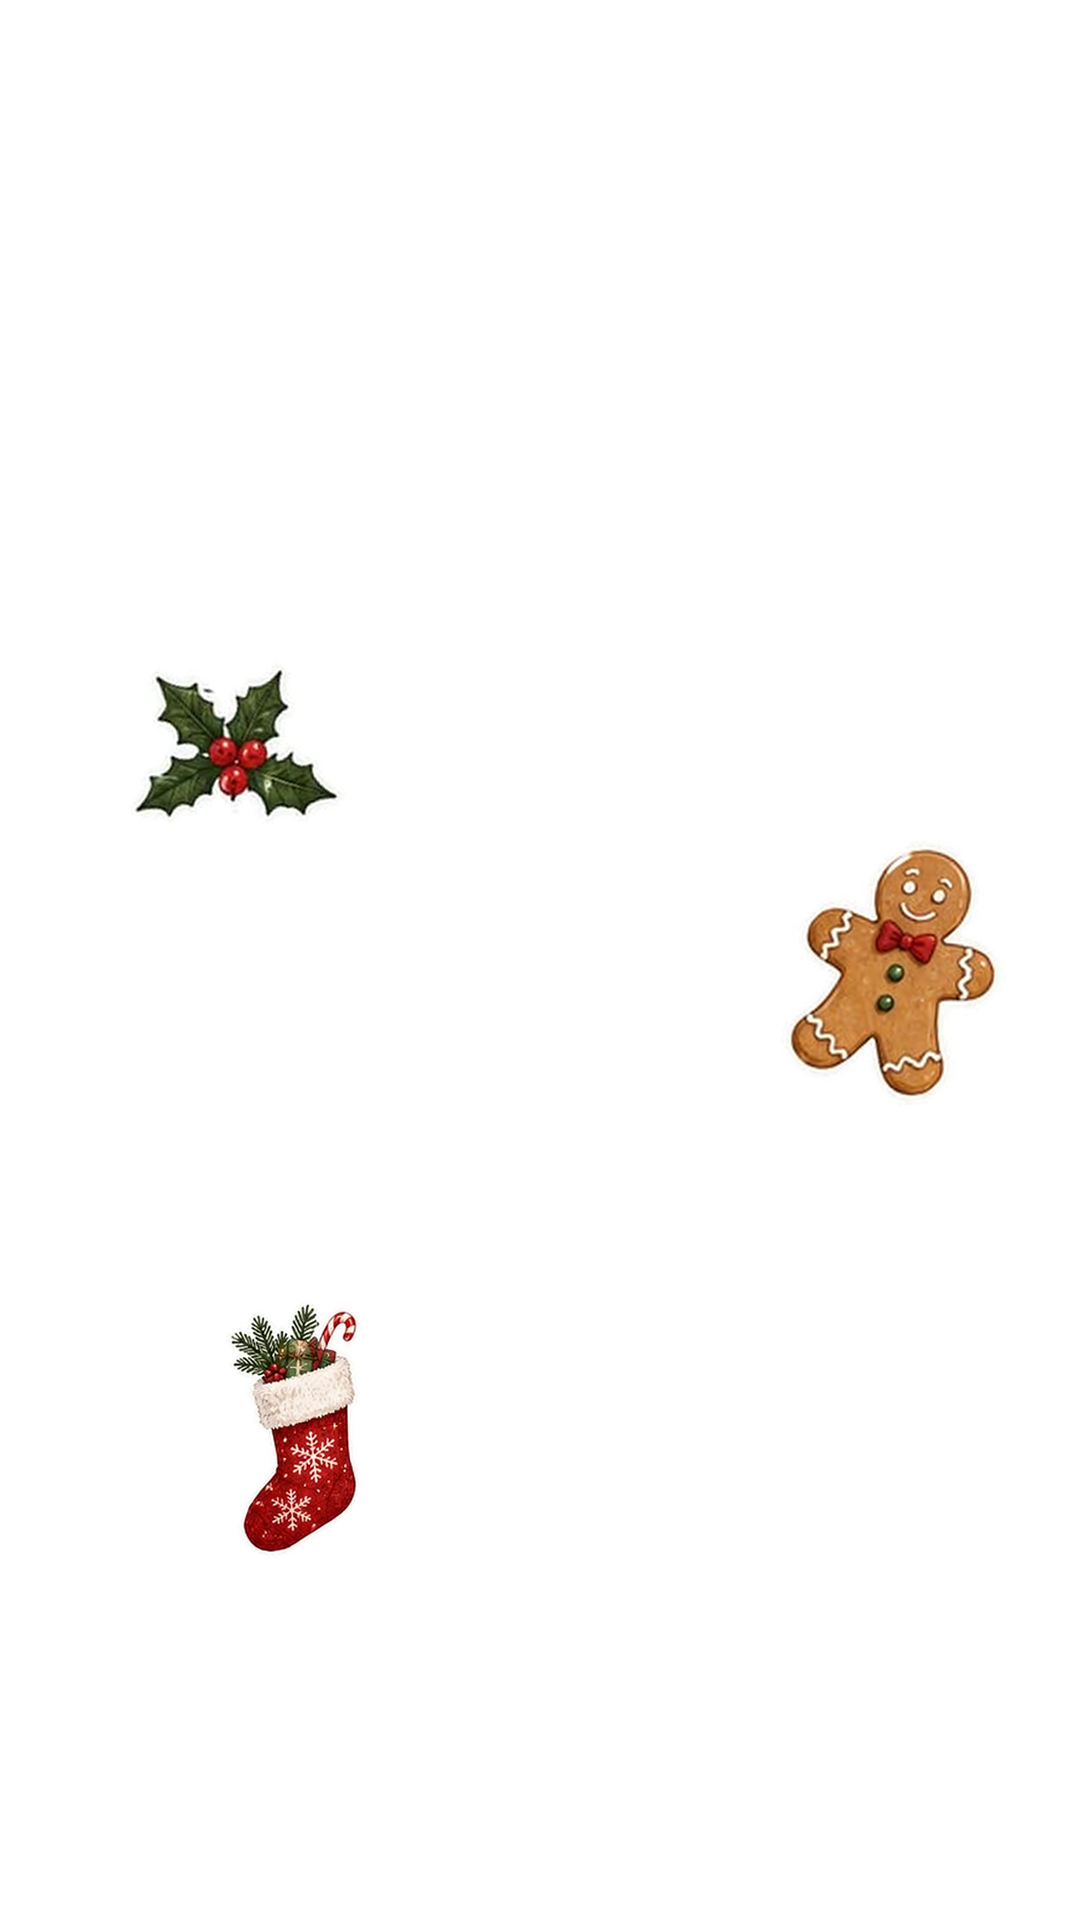
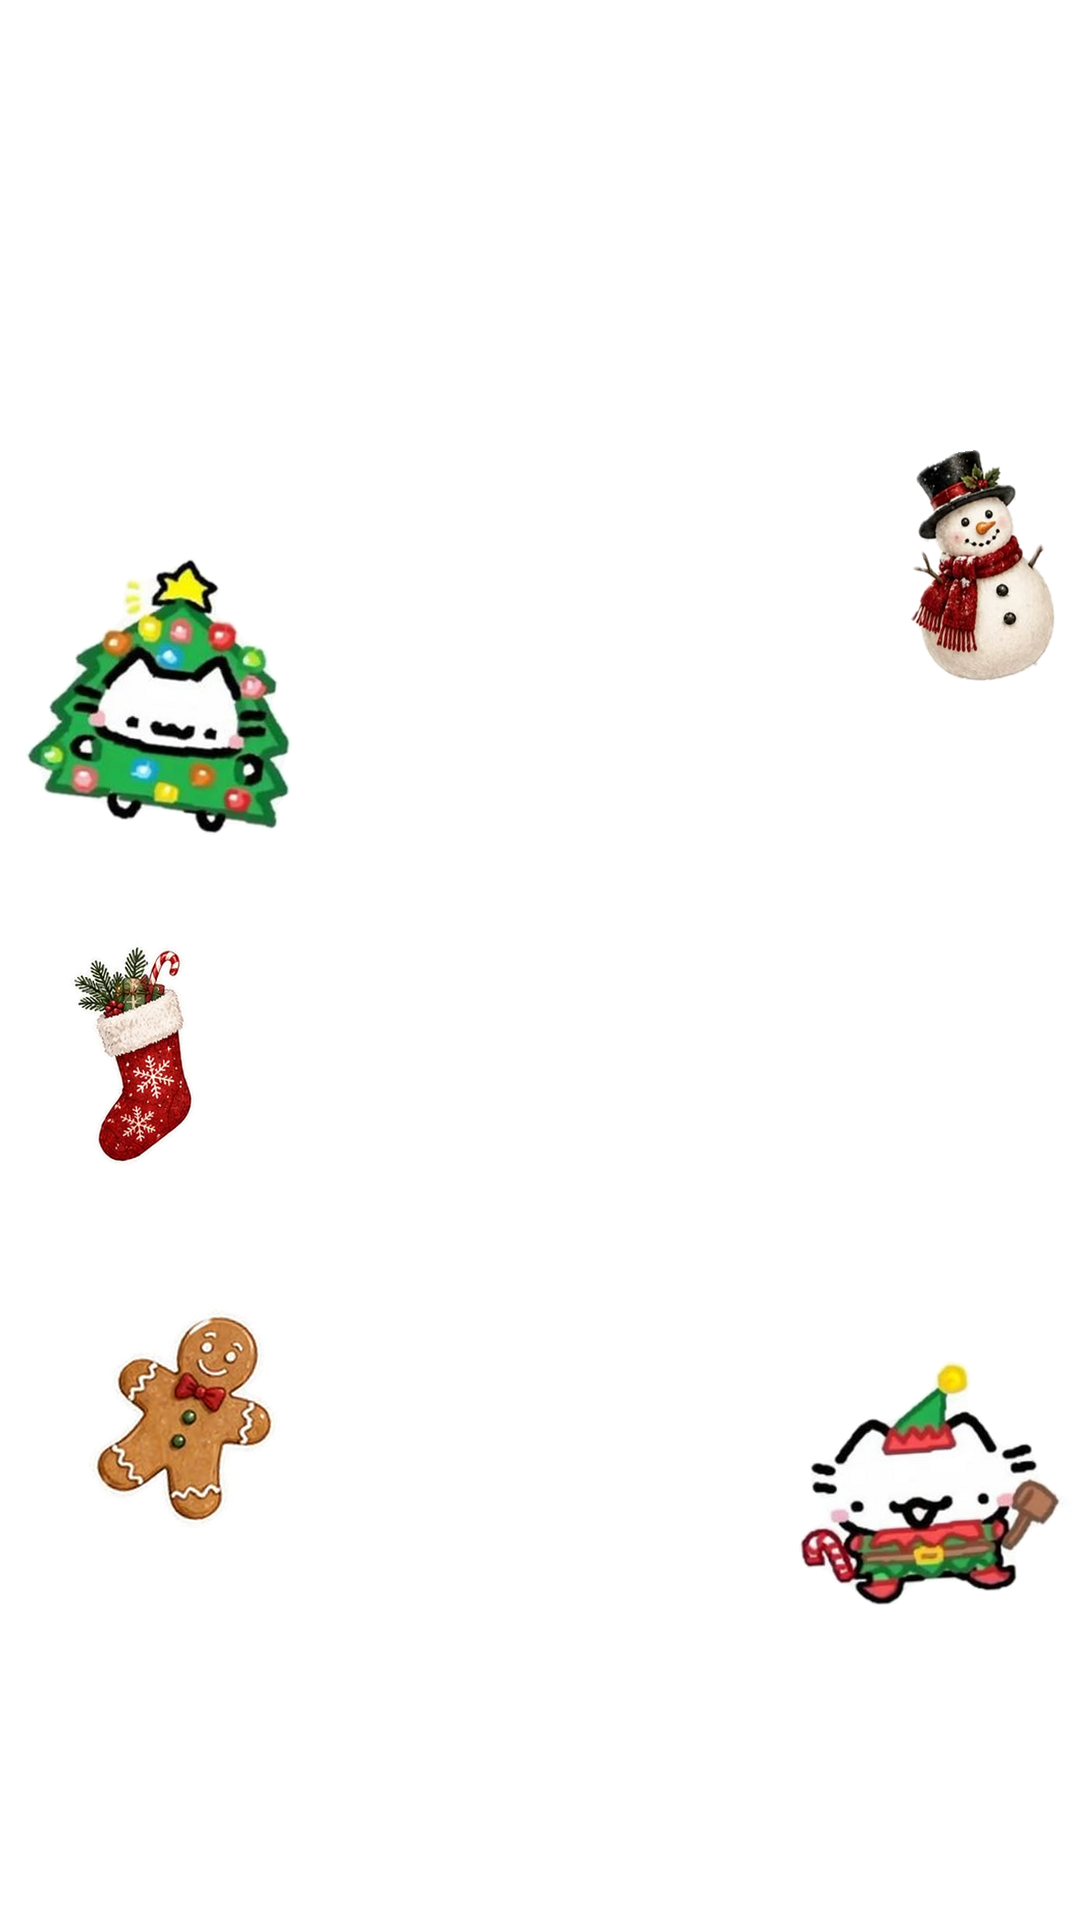
Introdução com stickers fixos e leve movimento a cada 0,5 s; abertura vem do IMG_7969; regras atualizadas
Claude-Session: https://claude.ai/code/session_01EDeurVhqsz6meJn35JURnX

diff --git a/scripts/stickers_intro.py b/scripts/stickers_intro.py
@@ -1,13 +1,16 @@
-"""Efeito de introdução: stickers que trocam a cada meio segundo (stop-motion).
+"""Efeito de introdução: stickers parados que mexem de leve a cada meio segundo (stop-motion).
+
+Pedido da Fran (03/11/2026): os stickers NÃO trocam. Os mesmos ficam na tela o tempo todo
+da introdução e, a cada passo (0,5 s), giram um pouco, deslocam alguns pixels e mudam
+levemente de tamanho, como um adesivo animado quadro a quadro.
 
 Uso: python3 scripts/stickers_intro.py projetos/<nome> [duracao_s] [passo_s]
-Stickers: os PNGs em <projeto>/stickers/ (os que a Fran aprovou). 3 por passo, sem repetir o passo anterior.
-Gera em <projeto>/saida/capcut/stickers_intro/ um PNG transparente 1080x1920 por passo
-(intro_01.png, intro_02.png, ...). No CapCut, cada PNG entra numa faixa de sobreposição
-com a duração do passo (0,5 s), um atrás do outro.
-
-Os stickers ficam nas bordas (cantos e laterais), longe do rosto e do centro, em posição,
-tamanho e giro que mudam a cada passo.
+Lê <projeto>/layout_intro.json:
+  [{"sticker": "D3_gatinho_arvore", "x": 180, "y": 700, "lado": 260, "giro": -8}, ...]
+  (x, y = centro em 1080x1920; lado = maior lado em px; giro = ângulo base em graus)
+Stickers: os PNGs aprovados em <projeto>/stickers/.
+Gera <projeto>/saida/capcut/stickers_intro/intro_01.png, ... (1080x1920 transparente, um por passo).
+No CapCut: cada PNG numa faixa de sobreposição com a duração do passo, um atrás do outro.
 """
 import glob
 import json
@@ -17,44 +20,36 @@ import sys
 
 from PIL import Image
 
-RAIZ = os.path.dirname(os.path.dirname(os.path.abspath(__file__)))
-# Zonas (x0, y0, x1, y1) para o centro do sticker: cantos e laterais, fora da faixa do rosto e da legenda.
-ZONAS = [(150, 640, 360, 820), (720, 640, 930, 820),      # cantos de cima (abaixo do gancho escrito)
-         (110, 960, 240, 1200), (840, 960, 970, 1200),     # laterais no meio
-         (150, 1350, 400, 1550), (680, 1350, 930, 1550)]  # cantos de baixo (acima da legenda do Reels)
+MEXE = {"desloca_px": 7, "giro_graus": 4, "escala": 0.03}  # "leve movimento"
 
 
 def main(projeto, duracao=3.0, passo=0.5, semente=7):
     rnd = random.Random(semente)
-    arqs = sorted(glob.glob(os.path.join(projeto, "stickers", "*.png")))
-    imgs = {os.path.basename(a)[:-4]: Image.open(a).convert("RGBA") for a in arqs}
-    POOL = list(imgs)
+    layout = json.load(open(os.path.join(projeto, "layout_intro.json")))
+    imgs = {s["sticker"]: Image.open(os.path.join(projeto, "stickers", s["sticker"] + ".png")).convert("RGBA")
+            for s in layout}
     destino = os.path.join(projeto, "saida", "capcut", "stickers_intro")
     os.makedirs(destino, exist_ok=True)
     for f in glob.glob(os.path.join(destino, "intro_*.png")):
         os.remove(f)
     n = int(round(duracao / passo))
-    roteiro, ultimo = [], set()
+    roteiro = []
     for k in range(n):
         quadro = Image.new("RGBA", (1080, 1920), (0, 0, 0, 0))
-        zonas = rnd.sample(range(len(ZONAS)), 3)  # 3 stickers por passo, em 3 das 6 zonas
-        nomes = rnd.sample([p for p in POOL if p not in ultimo] or POOL, 3)  # não repete o passo anterior
-        ultimo = set(nomes)
-        itens = []
-        for z, nome in zip(zonas, nomes):
-            x0, y0, x1, y1 = ZONAS[z]
-            img = imgs[nome]
-            alvo = rnd.randint(240, 320)  # maior lado, em px; no máximo 2x o original para não borrar
-            f = min(alvo / max(img.size), 2.0)
-            s = img.resize((round(img.width * f), round(img.height * f)), Image.LANCZOS).rotate(rnd.uniform(-18, 18), expand=True,
-                                                                       resample=Image.BICUBIC)
-            cx, cy = rnd.randint(x0, x1), rnd.randint(y0, y1)
-            quadro.alpha_composite(s, (cx - s.width // 2, cy - s.height // 2))
-            itens.append(nome)
+        for s in layout:
+            img = imgs[s["sticker"]]
+            f = min(s["lado"] / max(img.size), 2.0) * (1 + rnd.uniform(-MEXE["escala"], MEXE["escala"]))
+            giro = s.get("giro", 0) + rnd.uniform(-MEXE["giro_graus"], MEXE["giro_graus"])
+            t = img.resize((round(img.width * f), round(img.height * f)), Image.LANCZOS)
+            t = t.rotate(giro, expand=True, resample=Image.BICUBIC)
+            cx = s["x"] + rnd.randint(-MEXE["desloca_px"], MEXE["desloca_px"])
+            cy = s["y"] + rnd.randint(-MEXE["desloca_px"], MEXE["desloca_px"])
+            quadro.alpha_composite(t, (cx - t.width // 2, cy - t.height // 2))
         arq = f"intro_{k + 1:02d}.png"
         quadro.save(os.path.join(destino, arq))
-        roteiro.append({"arquivo": arq, "de": round(k * passo, 2), "ate": round((k + 1) * passo, 2), "stickers": itens})
-    json.dump(roteiro, open(os.path.join(destino, "roteiro.json"), "w"), ensure_ascii=False, indent=1)
+        roteiro.append({"arquivo": arq, "de": round(k * passo, 2), "ate": round((k + 1) * passo, 2)})
+    json.dump({"layout": layout, "passos": roteiro}, open(os.path.join(destino, "roteiro.json"), "w"),
+              ensure_ascii=False, indent=1)
     print(f"{n} quadros em {destino}")
 
 

diff --git a/CLAUDE.md b/CLAUDE.md
@@ -37,7 +37,9 @@ Toda correção nova que a Fran fizer entra aqui na mesma hora, com data, para n
 - **Sticker é sticker "aesthetic", não emoji.** Nada de Fluent Emoji, Twemoji ou parecidos. O estilo é de Pinterest/Instagram: laço coquette, enfeite vintage, azevinho em aquarela, estrela com glitter.
 - **Nada de editar, baixar asset ou montar kit antes de a Fran aprovar.** Primeiro mostrar as opções (folha com as imagens), esperar o "pode" e só depois seguir. Quando ela diz "não edita ainda", só preparar (baixar o bruto, transcrever) e perguntar.
 - **Vídeos de Natal e achadinhos podem ter cor.** O preto e branco vale para os Reels de provador. Para o CapCut (Mac), entregar um kit: vídeo cortado, legenda .srt, PNGs e roteiro de tempos.
-- **Introdução:** stickers que trocam a cada 0,5 s (stop-motion), gerados por `scripts/stickers_intro.py`. A pasta de stickers vai ser definida depois da aprovação.
+- **Introdução (corrigido em 03/11):** os stickers **não trocam**. Os mesmos ficam parados na tela e têm um **leve movimento a cada 0,5 s** (giram, deslocam e mudam de tamanho um pouquinho, estilo stop-motion). Gerados por `scripts/stickers_intro.py` a partir do `layout_intro.json` do projeto, longe do rosto e da peça.
+- **Stickers aprovados ficam em `projetos/<nome>/stickers/`** (fora do git, porque são de terceiros). Origem: pins que a Fran manda. Recortar a cartela em PNGs, montar a folha numerada e esperar ela escolher os códigos.
+- **Abertura:** a Fran grava a apresentação ("Achadinhos de Natal da Farm…") num arquivo separado e menor. **Antes de propor a abertura, olhar TODOS os vídeos da pasta do Drive**, não só o mais recente.
 
 ## Conferência antes de entregar
 1. Fazer a grade de quadros com o tempo na tela (`drawtext`, 2 a 4 quadros por segundo) e olhar:
